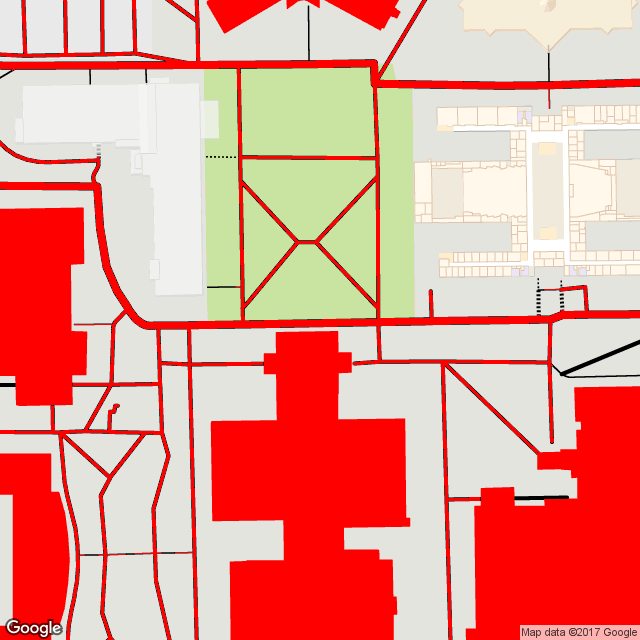
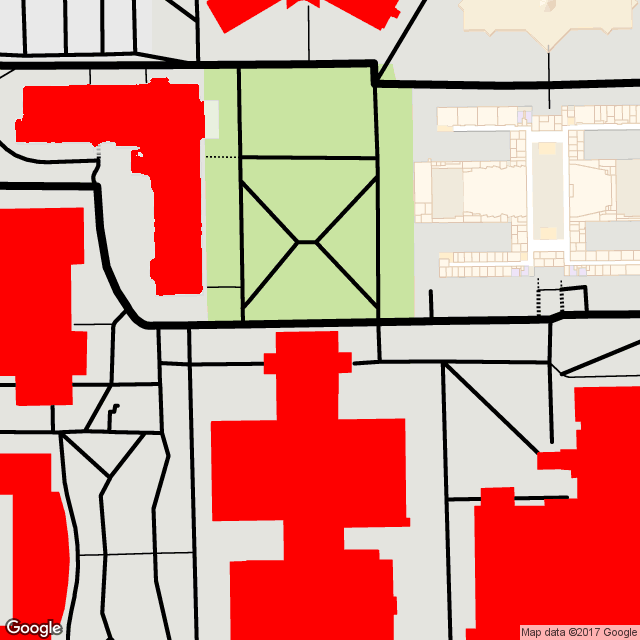
fill image working kinda again

diff --git a/src/server/processing/ColorOperations.java b/src/server/processing/ColorOperations.java
@@ -111,7 +111,7 @@ public class ColorOperations {
 			if (currRGB == Config.MAPS_BUILDING_RGB)
 				return;
 			
-		} while ( !Tools.colorIsProbablyBuilding(currRGB, Config.FILLCOLOR_RGB_TOLERANCE));
+		} while (false);
 		currX--;
 		currY--;
 
@@ -145,7 +145,8 @@ public class ColorOperations {
 							continue;
 					}
 					*/
-					neighborRGB = orig.getRGB(currX, y);
+					//neighborRGB = orig.getRGB(currX, y);
+					neighborRGB = getMode(orig, currX, y);
 					if (Tools.colorIsProbablyBuilding(neighborRGB, seedRGB)) {
 						tolerated = true;
 						break;
@@ -176,7 +177,8 @@ public class ColorOperations {
 							continue;
 					}
 					*/
-					neighborRGB = orig.getRGB(currX, y);
+					//neighborRGB = orig.getRGB(currX, y);
+					neighborRGB = getMode(orig, currX, y);
 					if (Tools.colorIsProbablyBuilding(neighborRGB, seedRGB)) {
 						tolerated = true;
 						break;
@@ -207,7 +209,8 @@ public class ColorOperations {
 							continue;
 					}
 					*/
-					neighborRGB = orig.getRGB(x, currY);
+				//	neighborRGB = orig.getRGB(x, currY);
+					neighborRGB = getMode(orig, x, currY);
 					if (Tools.colorIsProbablyBuilding(neighborRGB, seedRGB)) {
 						tolerated = true;
 						break;
@@ -237,7 +240,8 @@ public class ColorOperations {
 							continue;
 					}
 					*/
-					neighborRGB = orig.getRGB(x, currY);
+					//neighborRGB = orig.getRGB(x, currY);
+					neighborRGB = getMode(orig, x, currY);
 					if (Tools.colorIsProbablyBuilding(neighborRGB,seedRGB)) {
 						tolerated = true;
 						break;

diff --git a/src/generic/Config.java b/src/generic/Config.java
@@ -21,5 +21,5 @@ public class Config {
 	public static final int MAPS_WEIRD_OLIVE_PATH = 0xffB7B393; //A WEIRD OLIVE COLOR
 	public static final int FILLCOLOR_PIXELDIM_TOLERANCE = 0;
 	public static final int FILLCOLOR_MODE_RADIUS = 2;
-	public static final int FILLCOLOR_RGB_TOLERANCE = 2;
+	public static final int FILLCOLOR_RGB_TOLERANCE = 4;
 }
